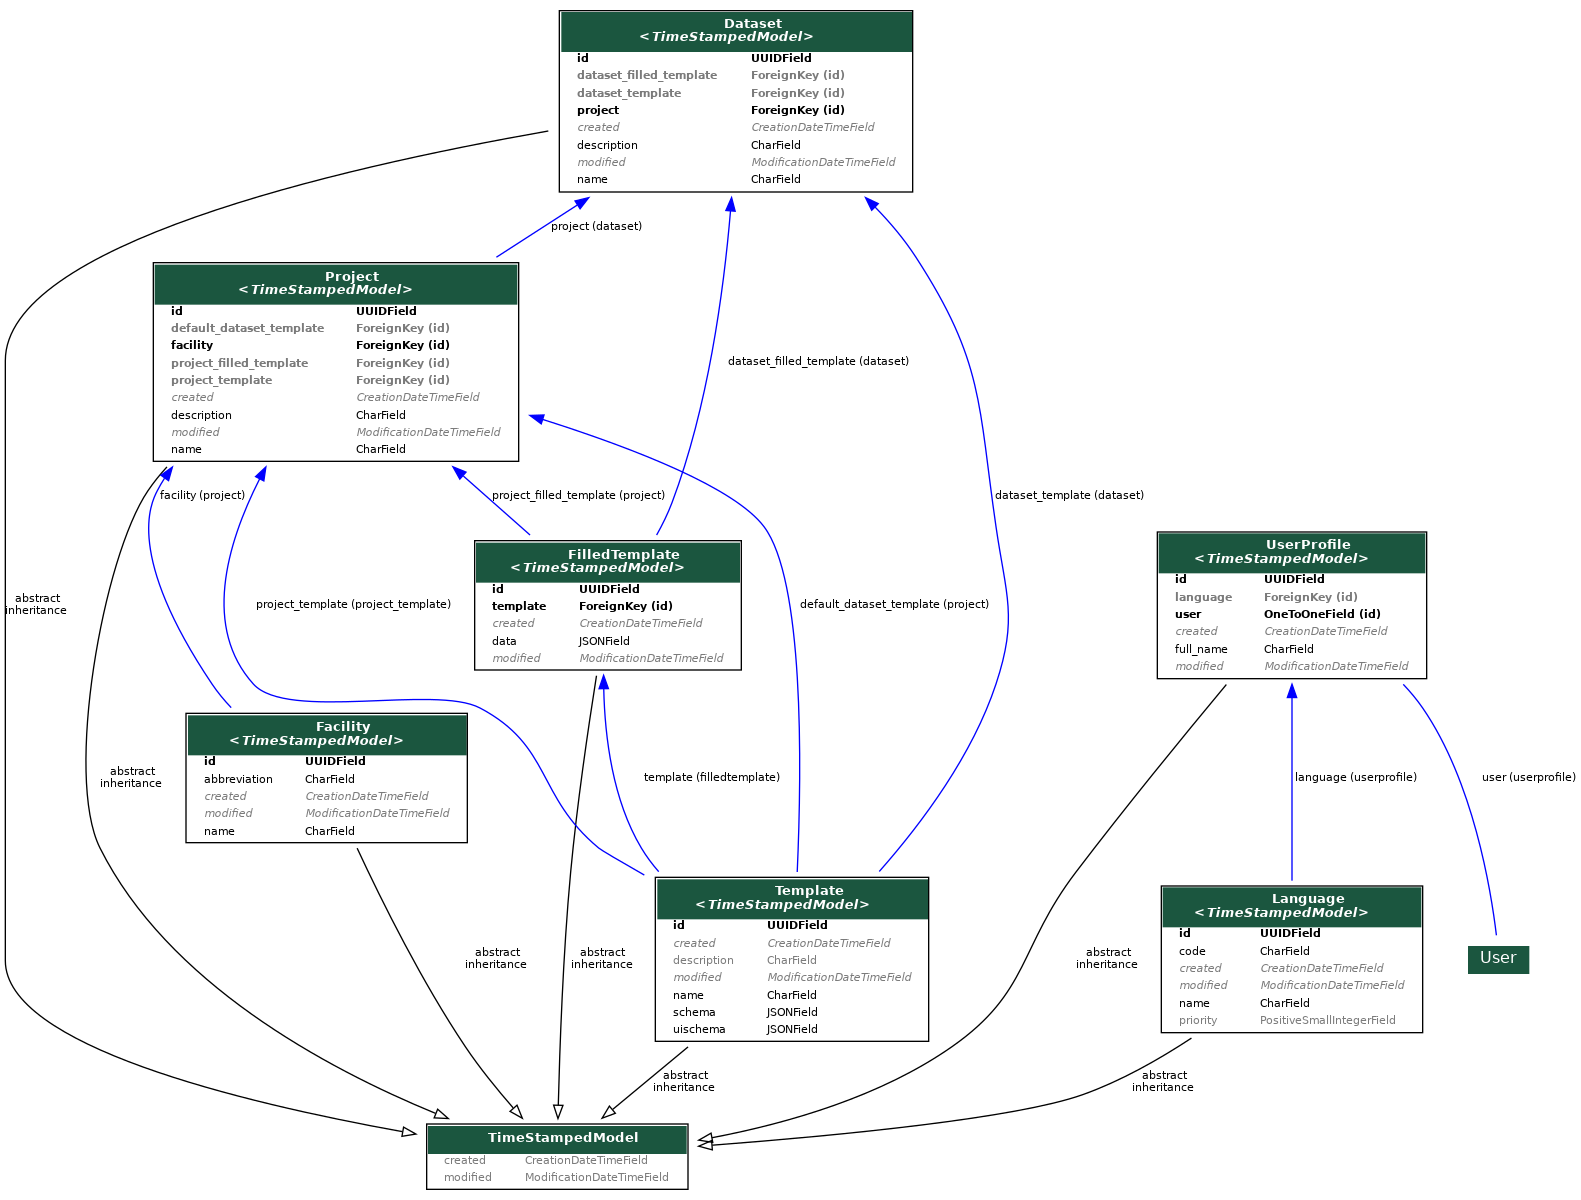
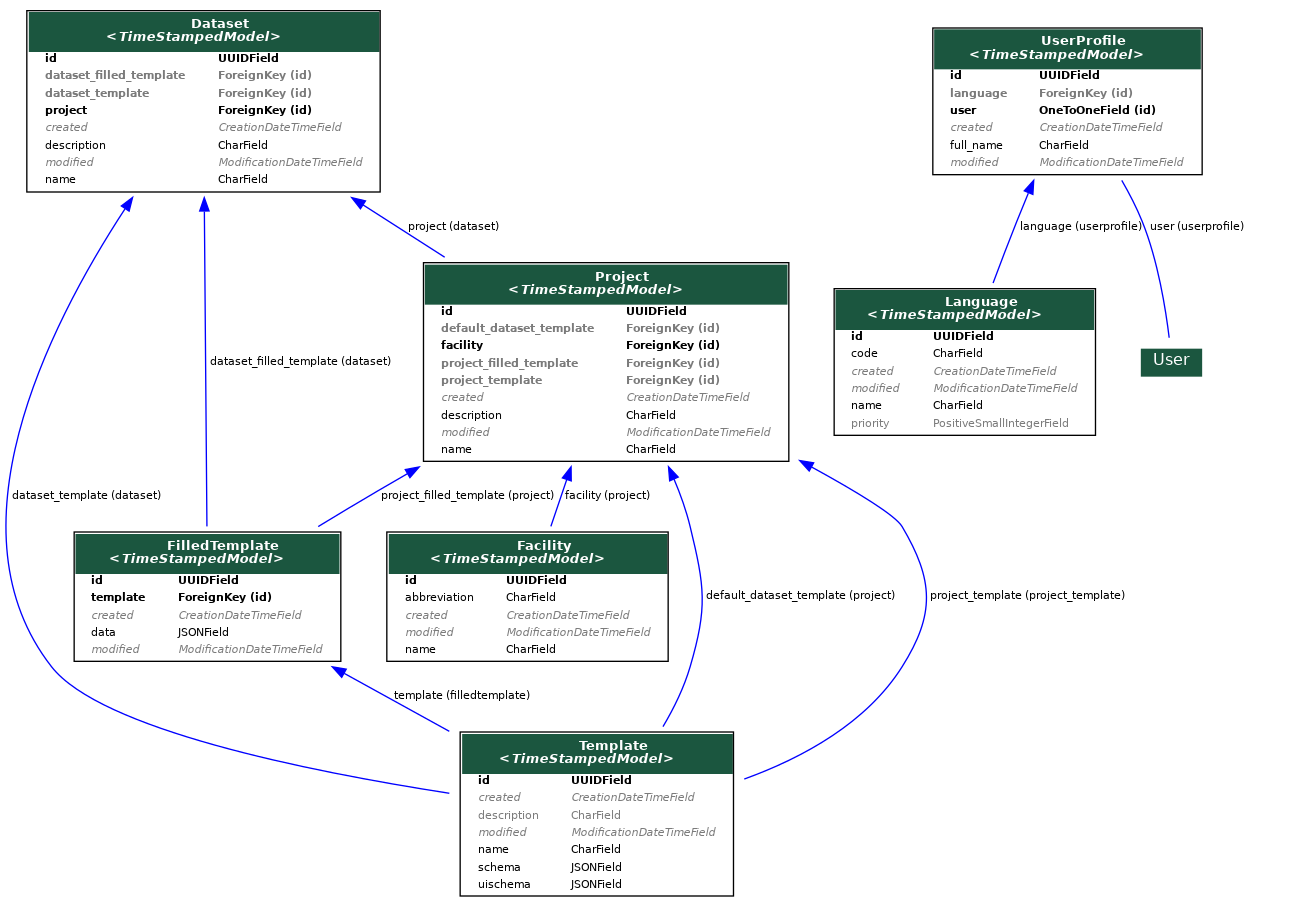
better app ERD

diff --git a/dareg/api/models.py b/dareg/api/models.py
@@ -11,7 +11,7 @@ from django.conf import settings
 # apt update && apt install graphviz
 # pip3 install pydotplus
 # only one given app
-# pyma graph_models api --pydot --arrow-shape normal --color-code-deletions -o dareg.png
+# pyma graph_models api --exclude-models TimeStampedModel --pydot --arrow-shape normal --color-code-deletions -o dareg.png
 # all apps
 # pyma graph_models api --all-applications --group-models --pydot --arrow-shape normal --color-code-deletions -o dareg_full.png
 ##
